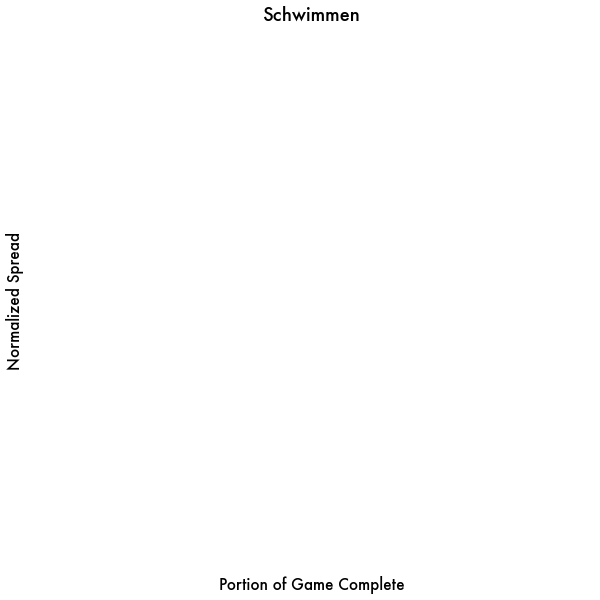
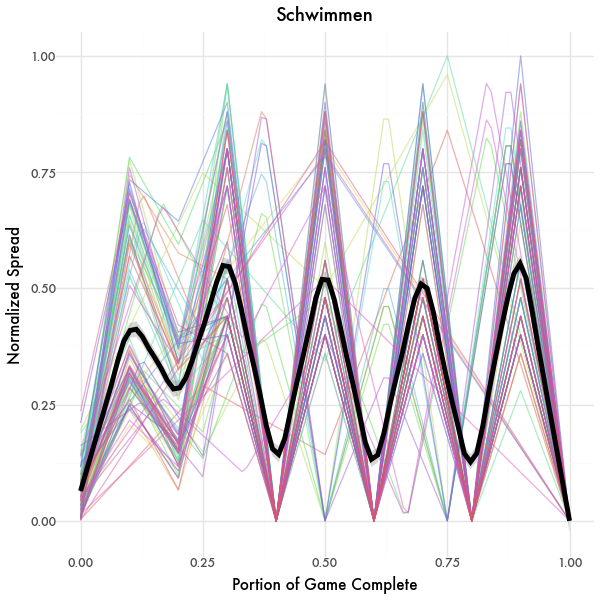
Adding missing figures

diff --git a/_posts/2026-01-15-blackjack.md b/_posts/2026-01-15-blackjack.md
@@ -32,6 +32,8 @@ Blackjack is a *[banking](https://www.pagat.com/banking/)* game. Other games in 
 
 {% include movement.md %}
 
+{% include branching.md %}
+
 {% include spread.md %}
 
 {% include lead.md %}

diff --git a/_posts/2026-01-15-schwimmen.md b/_posts/2026-01-15-schwimmen.md
@@ -34,6 +34,8 @@ Schwimmen is a *[commerce](https://www.pagat.com/commerce/)* or exchange game. O
 
 {% include branching.md %}
 
+{% include spread.md %}
+
 {% include lead.md %}
 
 {% include recycle.md %}